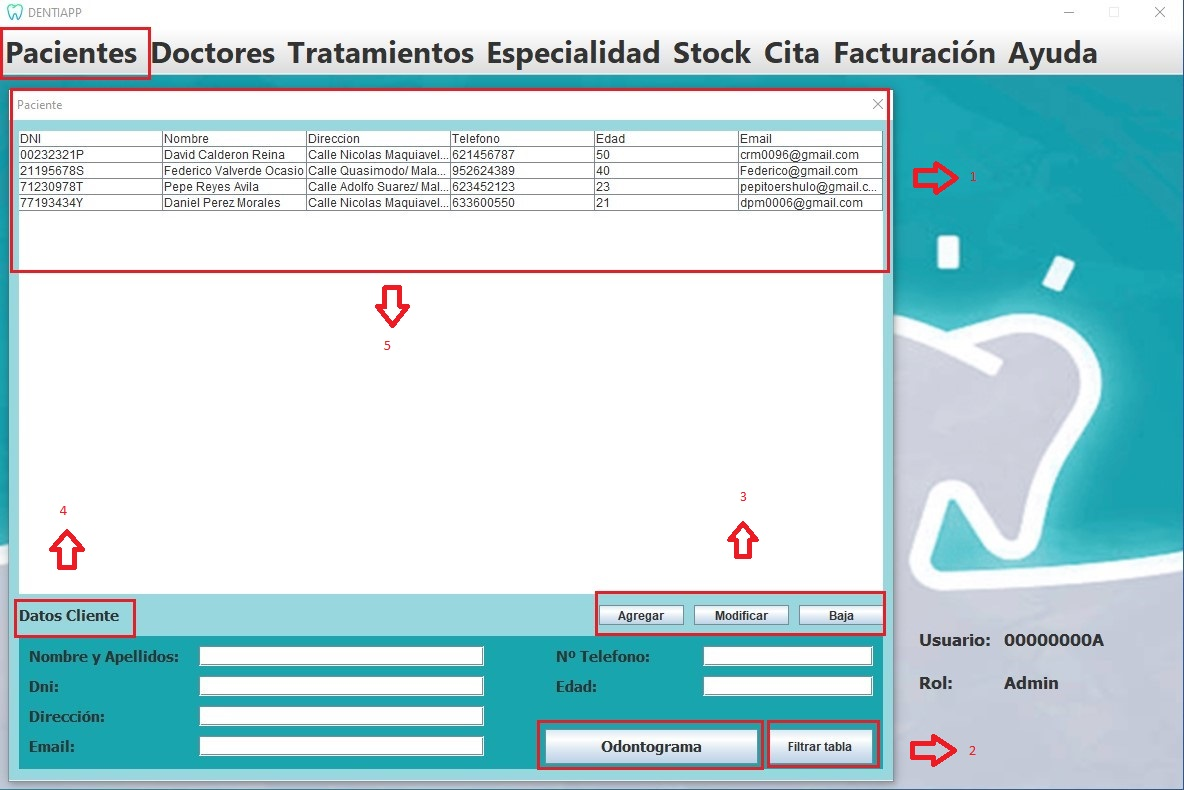
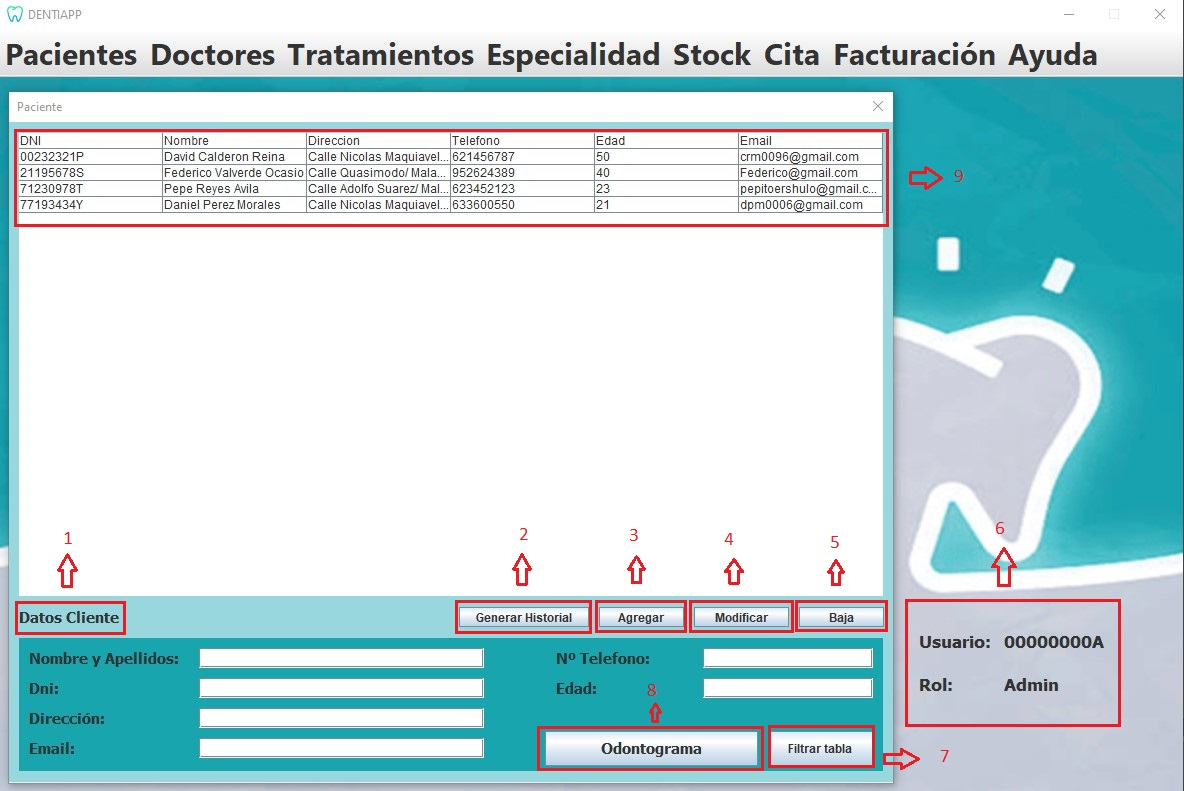
Actualizacion

diff --git a/DentiApps/interfaz/Interfaz_DentiLax/bin/help/codigo/gestionPaciente.html b/DentiApps/interfaz/Interfaz_DentiLax/bin/help/codigo/gestionPaciente.html
@@ -33,10 +33,16 @@
                 <span class="elemento">Botón "Odontograma":</span>Este es utilizado mayoritariamente por el doctor, el cual puede observar y modificar las acciones que hay sobre el paciente.
             </li>
             <li>
+                <span class="elemento">Botón "General Historial":</span>Aqui obtenemos el informe del paciente, el cual solo puede generarlo el administrador.
+            </li>
+            <li>
                 <span class="elemento">Botón "Filtrar Tabla":</span>Tanto el administrador como el doctor puede buscar al paciente conociendo su DNI y se les mostrara en la ventana ya filtrado.
             </li>
             <li>
                 <span class="elemento">Cuadro de texto "Datos Cliente":</span>En él se mostrará todos los datos de paciente seleccionado .
+                <li>
+                    <span class="elemento">Cuadro 'Datos Usuario':</span>En el siempre tenemos visible el rol con el que hemos iniciado sesión.
+                </li>
           
         </ol>
     </div>

diff --git a/DentiApps/interfaz/Interfaz_DentiLax/bin/help/codigo/gestionFacturacion.html b/DentiApps/interfaz/Interfaz_DentiLax/bin/help/codigo/gestionFacturacion.html
@@ -50,6 +50,9 @@
                 queramos trabajar.
             </li>
             <li>
+                <span class="elemento">Botón Sacar factura":</span> Con el podremos imprimir la factura de un paciente que tengamos en nuestra tabla.
+            </li>
+            <li>
                 <span class="elemento">Botón "Filtrar tabla":</span>Este botón nos permitirá buscar una Factura en específico de la tabla, en
                 el caso de que queramos hacer una comprobación y nuestra tabla contenga muchos elementos. Para hacer uso de él, primero 
                 pulsamos sobre él y se nos desplegará un cuadro de texto en el que tendremos que introducir la Factura que queremos 
